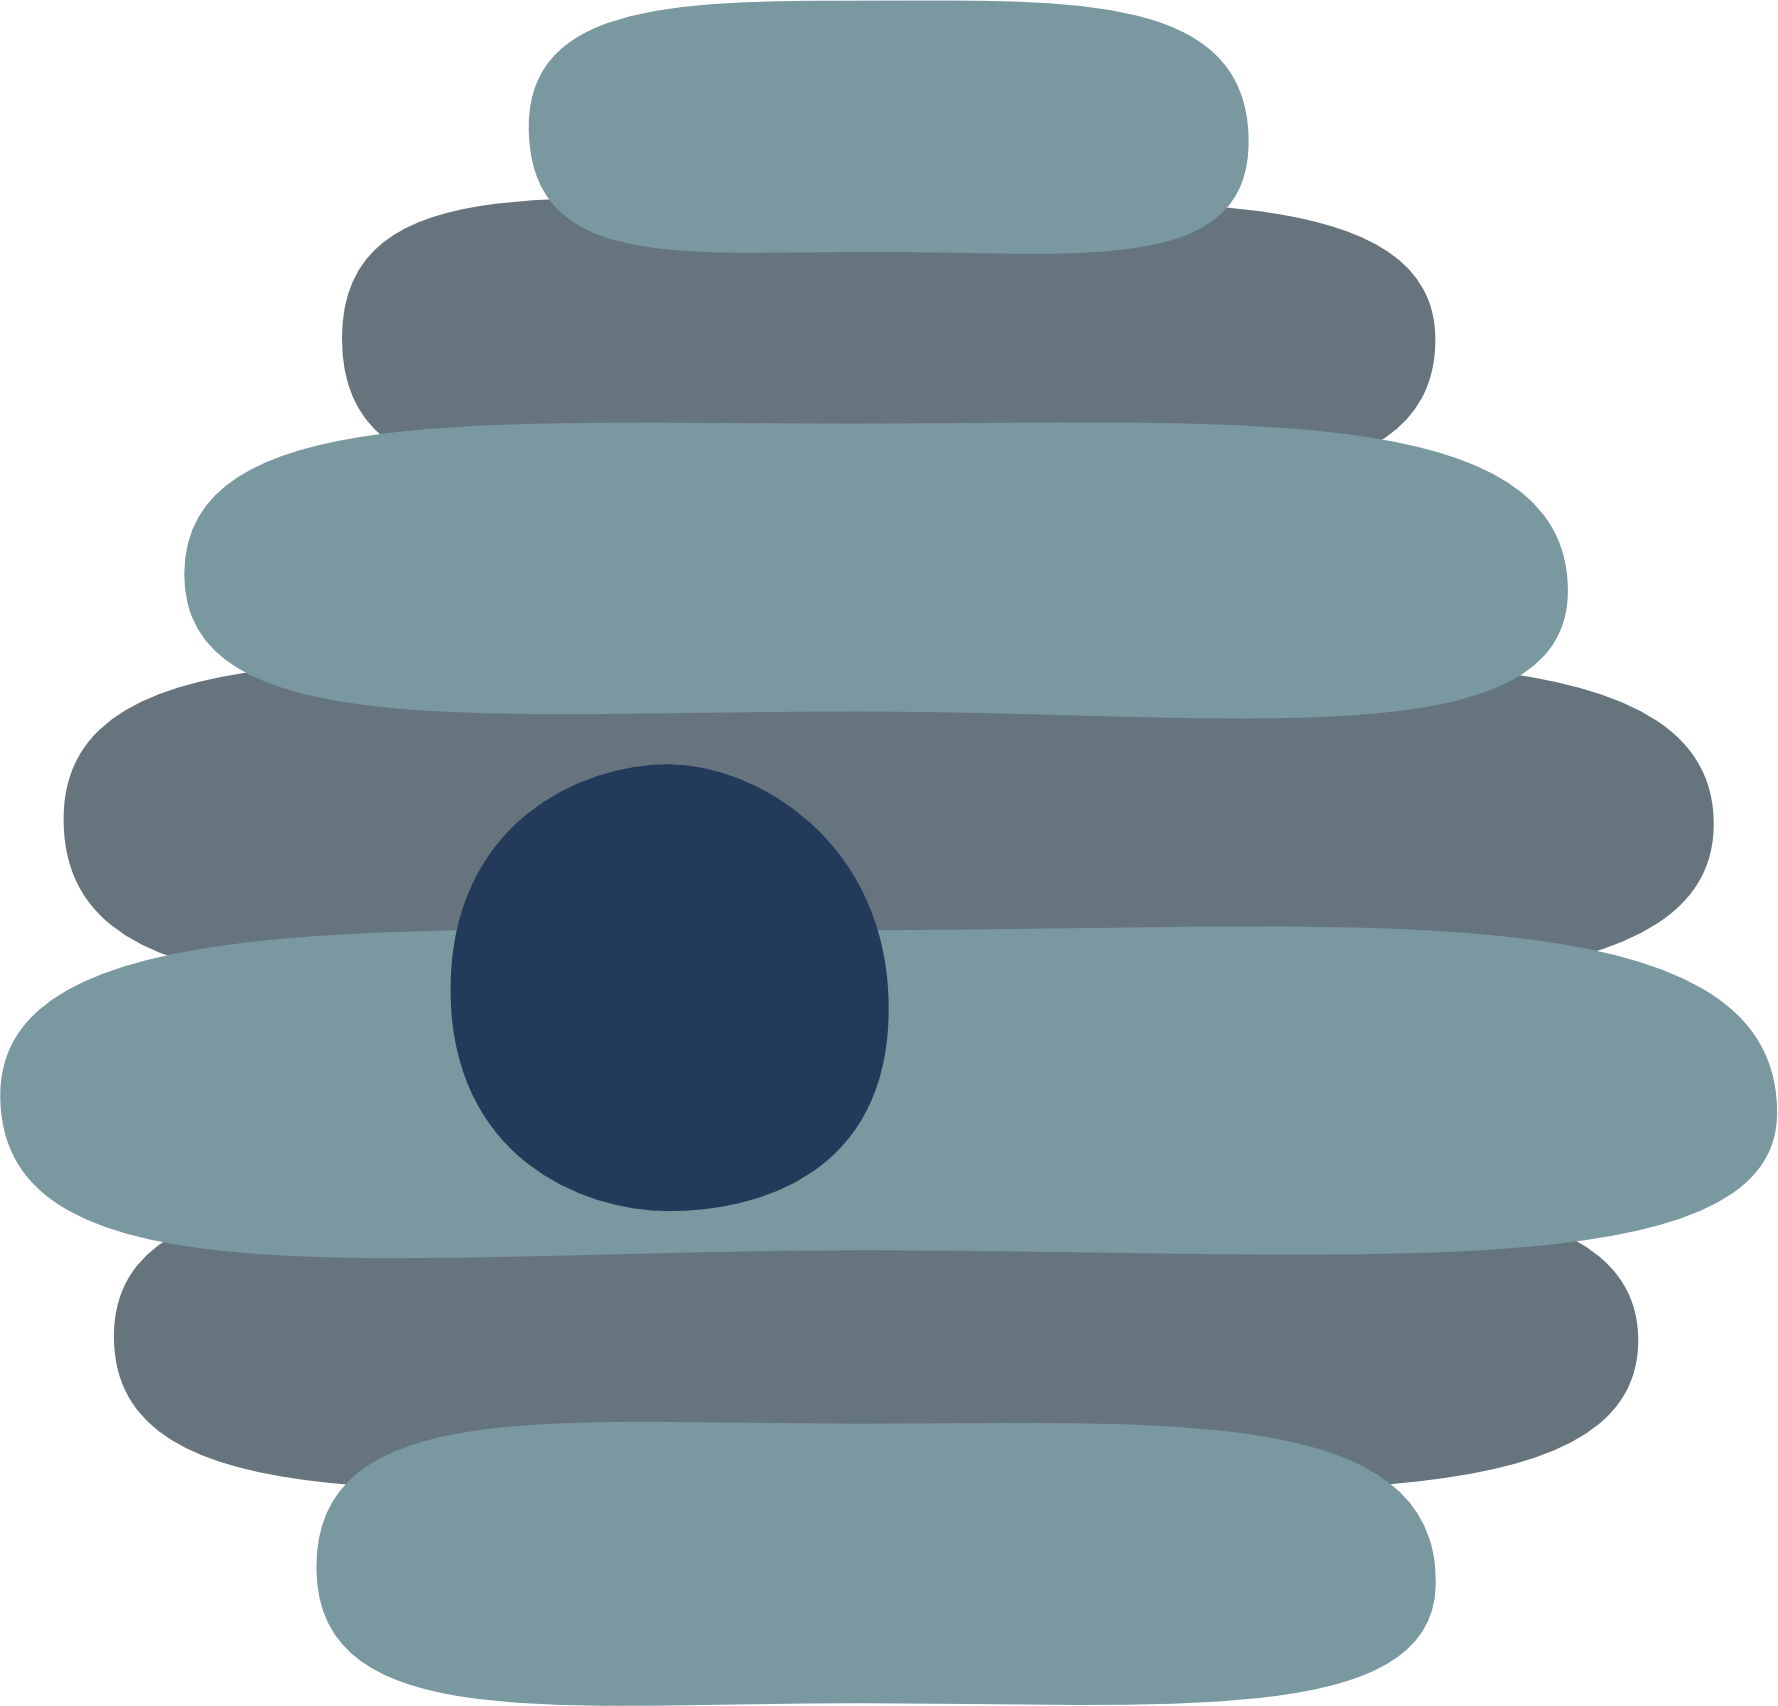
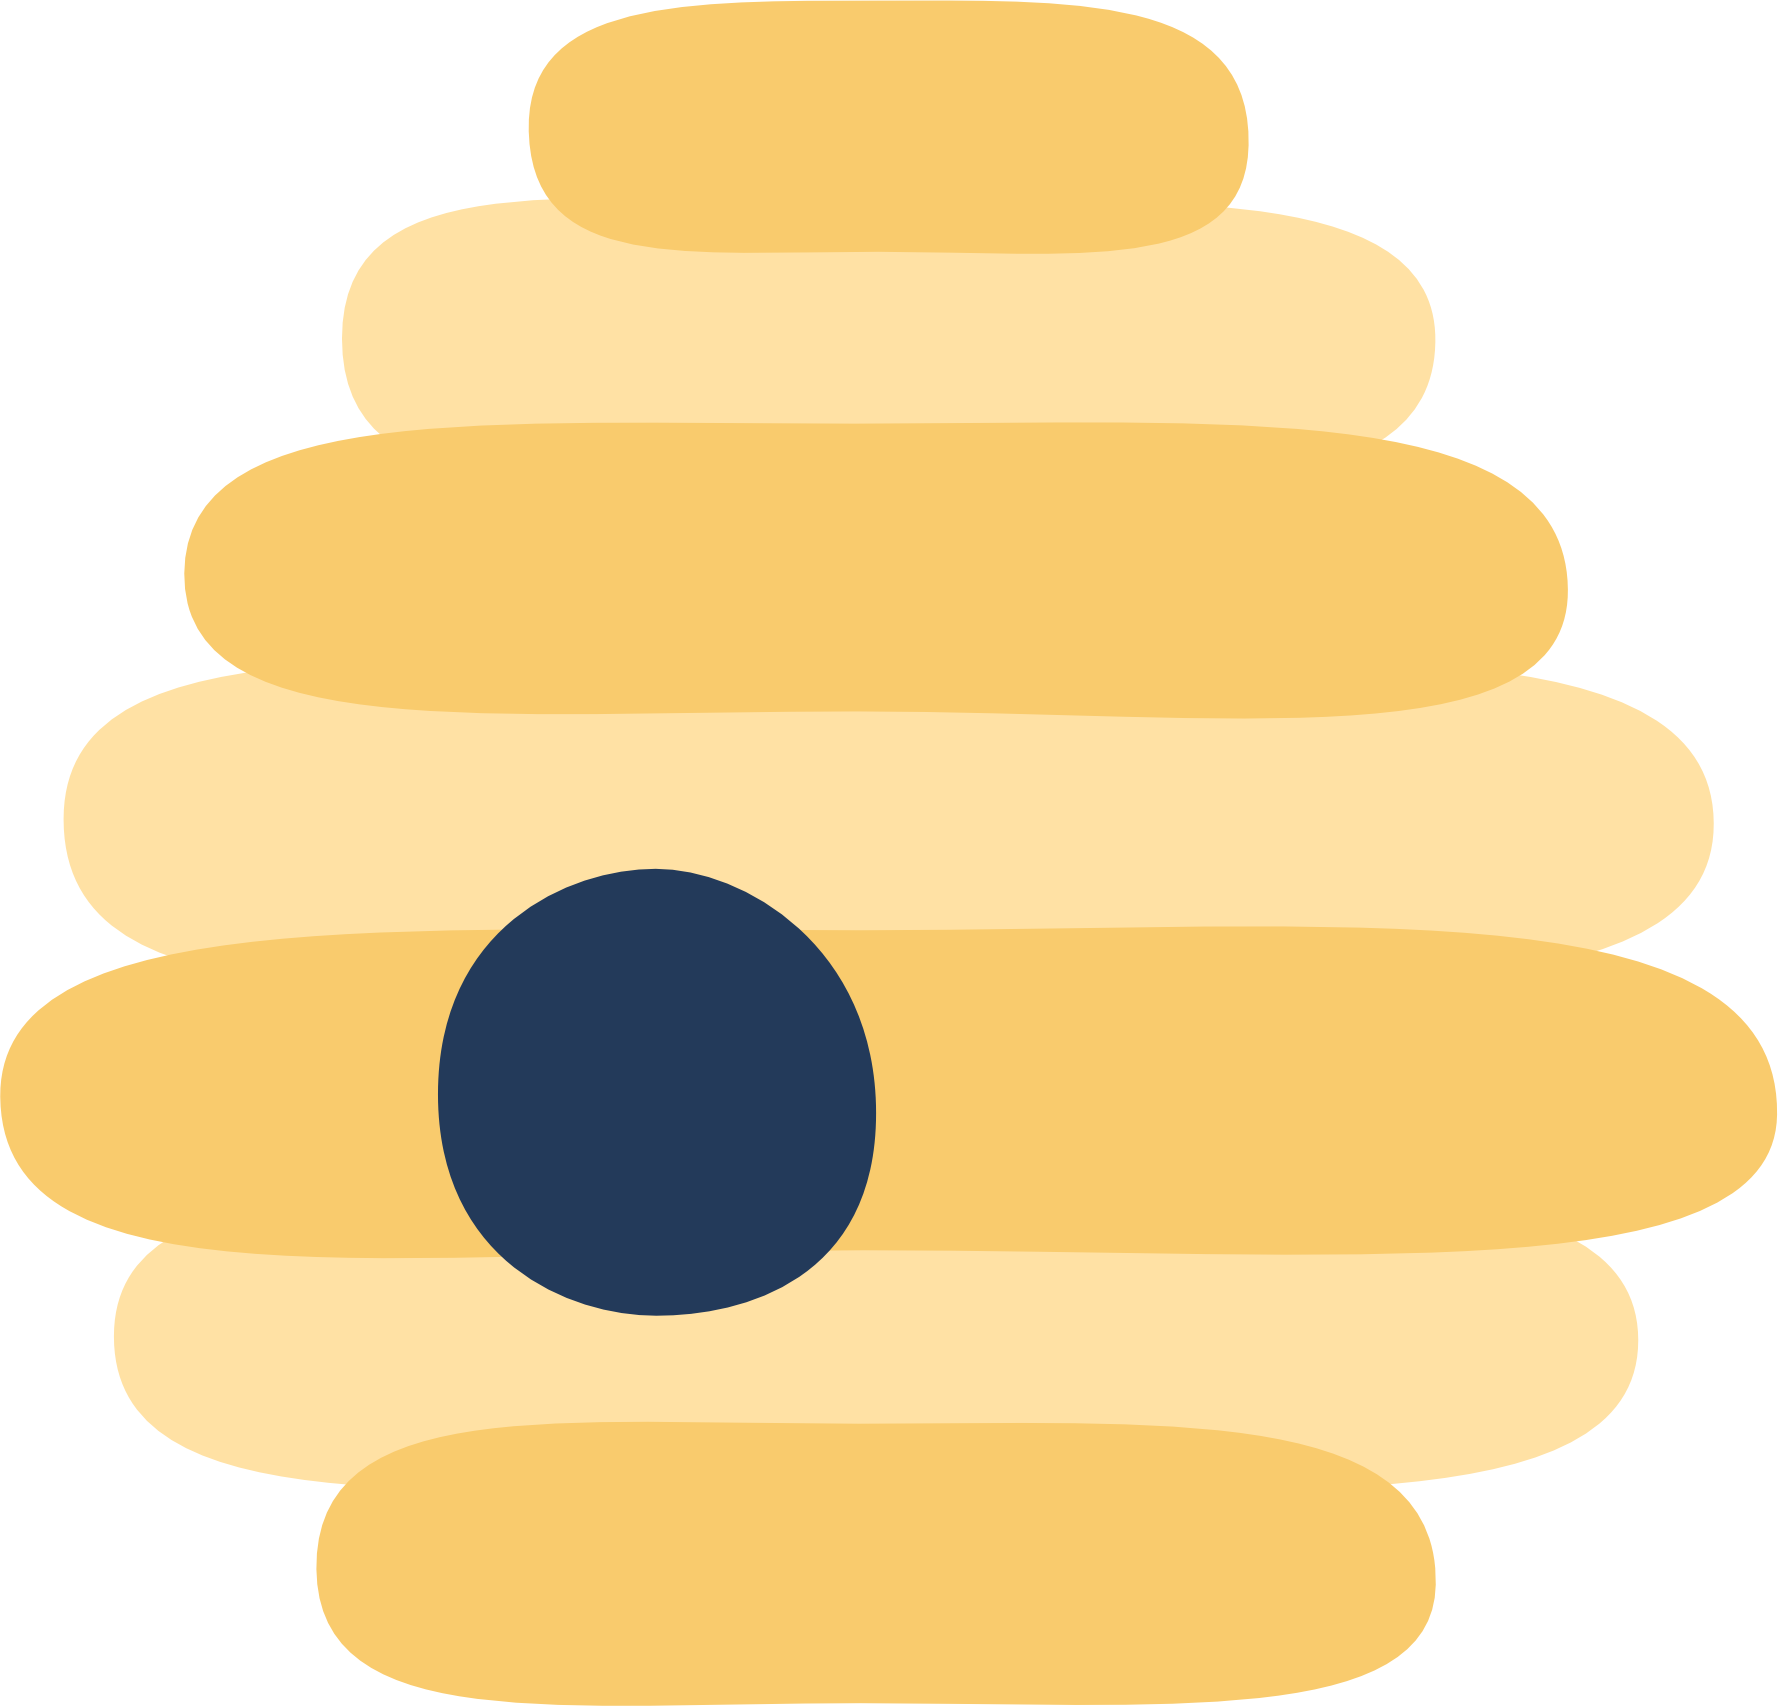
playing with color, added CSS stripes to content boxes

diff --git a/styles.css b/styles.css
@@ -16,7 +16,7 @@ p, h1, h2, h3, h4, h5, h6, li, address, .nav-child {
 
 body {
     margin: 0;
-    background-color: #d8e3e6;
+    background-color: #c4dee4;
 }
 
 h1 {
@@ -88,7 +88,10 @@ address {
 }
 
 .content {
-    background-color: #7998A0;
+    background: linear-gradient(135deg, #7998A0 8%, #F9CB6D 8%, #F9CB6D 15%, #7998A0 15%, #7998A0 17%, #EA6352 17%, #EA6352 19%, #7998A0 19%);
+    background-repeat: no-repeat; 
+
+    /*background-color: #7998A0; */
     border-radius: 10px;
     padding: 15px 15px 15px 15px;
     margin: 0 15px 0 15px;
@@ -109,7 +112,7 @@ address {
     align-items: center;
     height: 80px;
     width: 100%;
-    background: #F9CB6D;
+    background: #fff;
     padding: 10px;
 }
 
@@ -166,11 +169,6 @@ address {
 
 /* MEDIUM, 480-768px, for tablets */
 @media screen and (min-width: 480px) and (max-width: 768px) {
-
-    body {
-        /*todo: remove this line; for testing only*/ background-color: #c4ced2;
-      }   
-
     
       
 }
@@ -178,10 +176,6 @@ address {
 
 /* WIDE, > 769px, for desktop */
 @media screen and (min-width: 769px) {
-
-    body {
-        /*todo: remove this line; for testing only*/ background-color: #a4afb3;
-      } 
       
     .grid-container {
         display: grid;

diff --git a/index.html b/index.html
@@ -19,7 +19,7 @@
 
     <div class="nav-bar">
         <div class="nav-child"><input type="image" class="nav-icon honeycomb-display" src="Honey0.png" /></div>
-        <div class="nav-child time-text"><span id="time">30</span></div>
+        <div class="nav-child time-text"><span id="time">60</span></div>
         <div class="nav-child"><a href="">?</a></div>
         <!--todo: help currently leads nowhere ^ -->
     </div>   
@@ -50,7 +50,7 @@
             Creative, reliable problem solver; leader that can delegate; challenge-loving critical thinker; time management expert with high attention to detail; self-directed, fast learner that craves feedback; excellent verbal and written communicator; meticulous code-commenter. 
             </p>
             </div>
-            <div class="righty-image"> <input type="image" class="flower cosmos" src="Cosmos.png" onclick="clickFlower()"/> </div>
+            <div class="righty-image"> <input type="image" class="flower cosmos" src="Cosmos.png"/> </div>
         </div>
         <div class="box x title gradient-text">
             <h2>Experience</h2>

diff --git a/script.js b/script.js
@@ -18,9 +18,9 @@ function startTimer(duration, display) {
 }
 
 window.onload = function () {
-    var thirtySeconds = 30;
+    var sixtySeconds = 60;
     display = document.querySelector('#time');
-    startTimer(thirtySeconds, display);
+    startTimer(sixtySeconds, display);
 };
 
 
@@ -46,12 +46,6 @@ let cosmosHasPollen = true;
 let pansyHasPollen = true;
 let poppyHasPollen = true;
 
-
-function ClickFlower() {
-    honeyCount++;
-    console.log("honey count is " + honeyCount);
-  }
-
 function IncrementHoneyCount() {
     honeyCount++
     if (honeyCount == 1){
@@ -62,7 +56,7 @@ function IncrementHoneyCount() {
     }
     else if (honeyCount == 3){
         honeycombDisplay.src="Honey3.png";
-        //todo win condition
+        //todo add win condition
     }
 }
 
